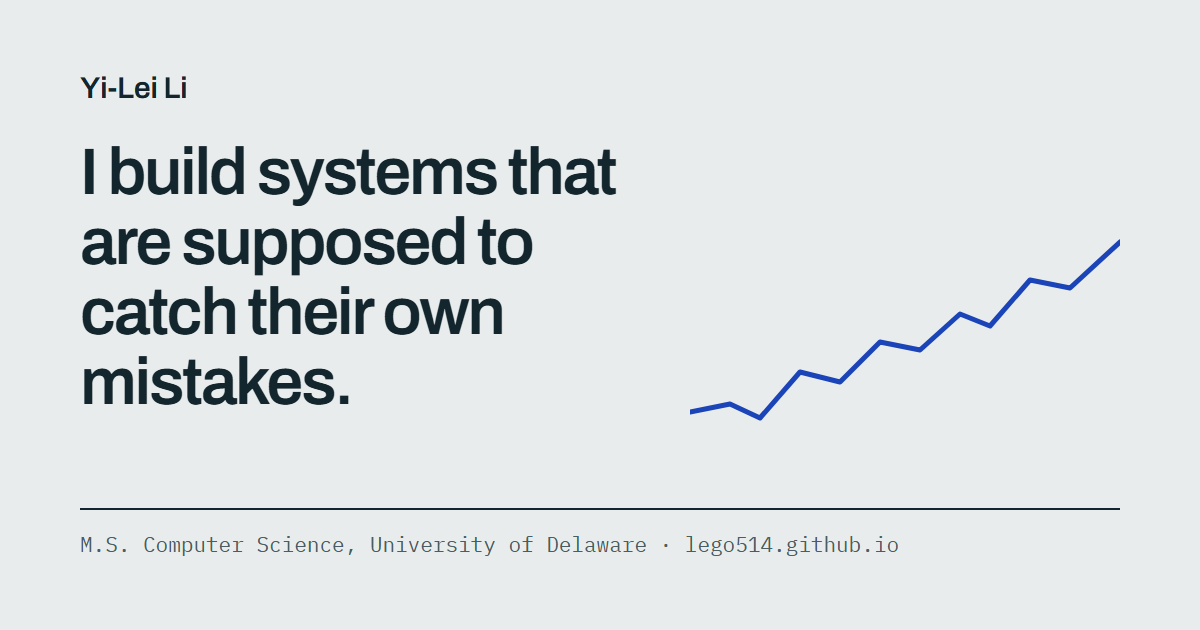
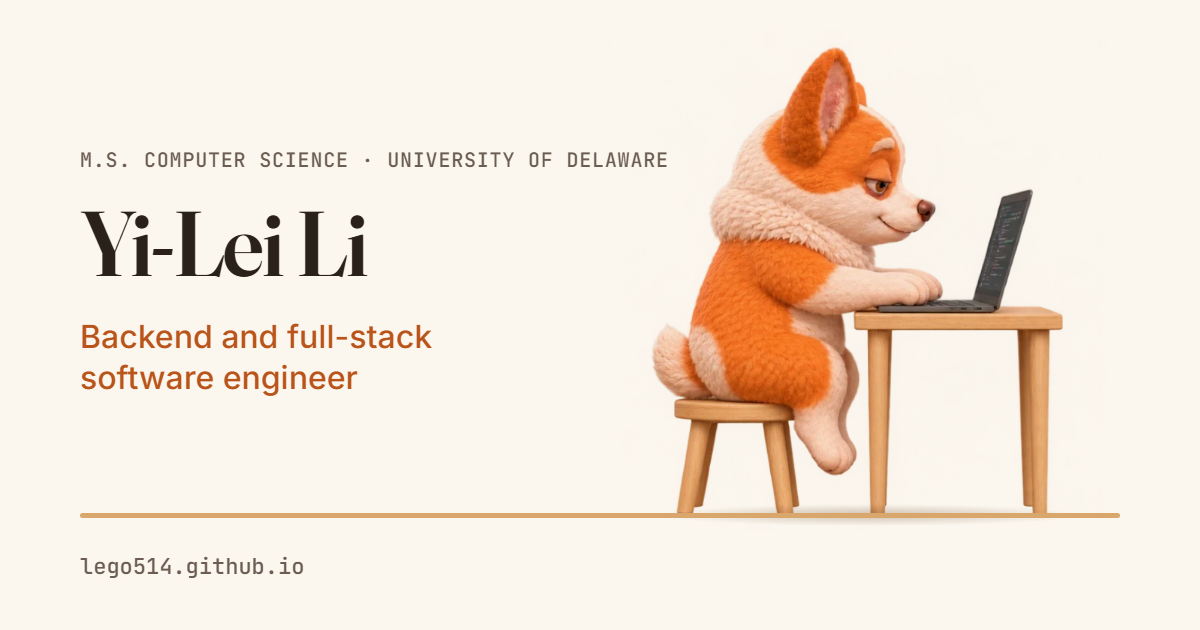
feat: new share image with Lego for link previews

Changed region(s): [[0.0617, 0.0603, 0.925, 0.9349], [0.0617, 0.2111, 0.555, 0.6635], [0.0617, 0.1206, 0.1542, 0.181]]

diff --git a/index.html b/index.html
@@ -11,11 +11,10 @@
 <meta property="og:url" content="https://lego514.github.io/">
 <meta property="og:title" content="Yi-Lei Li — software engineer">
 <meta property="og:description" content="Backend and full-stack engineer. I build Java and TypeScript services and the React apps on top of them, with tests that check the result, not only the code.">
-<!-- TODO(ray): og.png still shows the old dark design; render a new 1200×630 card with Lego, then keep these four lines. -->
 <meta property="og:image" content="https://lego514.github.io/og.png">
 <meta property="og:image:width" content="1200">
 <meta property="og:image:height" content="630">
-<meta property="og:image:alt" content="Yi-Lei Li, software engineer">
+<meta property="og:image:alt" content="Yi-Lei Li, backend and full-stack software engineer, with Lego the corgi typing at a desk">
 <meta name="twitter:card" content="summary_large_image">
 <meta name="twitter:title" content="Yi-Lei Li — software engineer">
 <meta name="twitter:description" content="Backend and full-stack engineer. I build Java and TypeScript services and the React apps on top of them, with tests that check the result, not only the code.">
